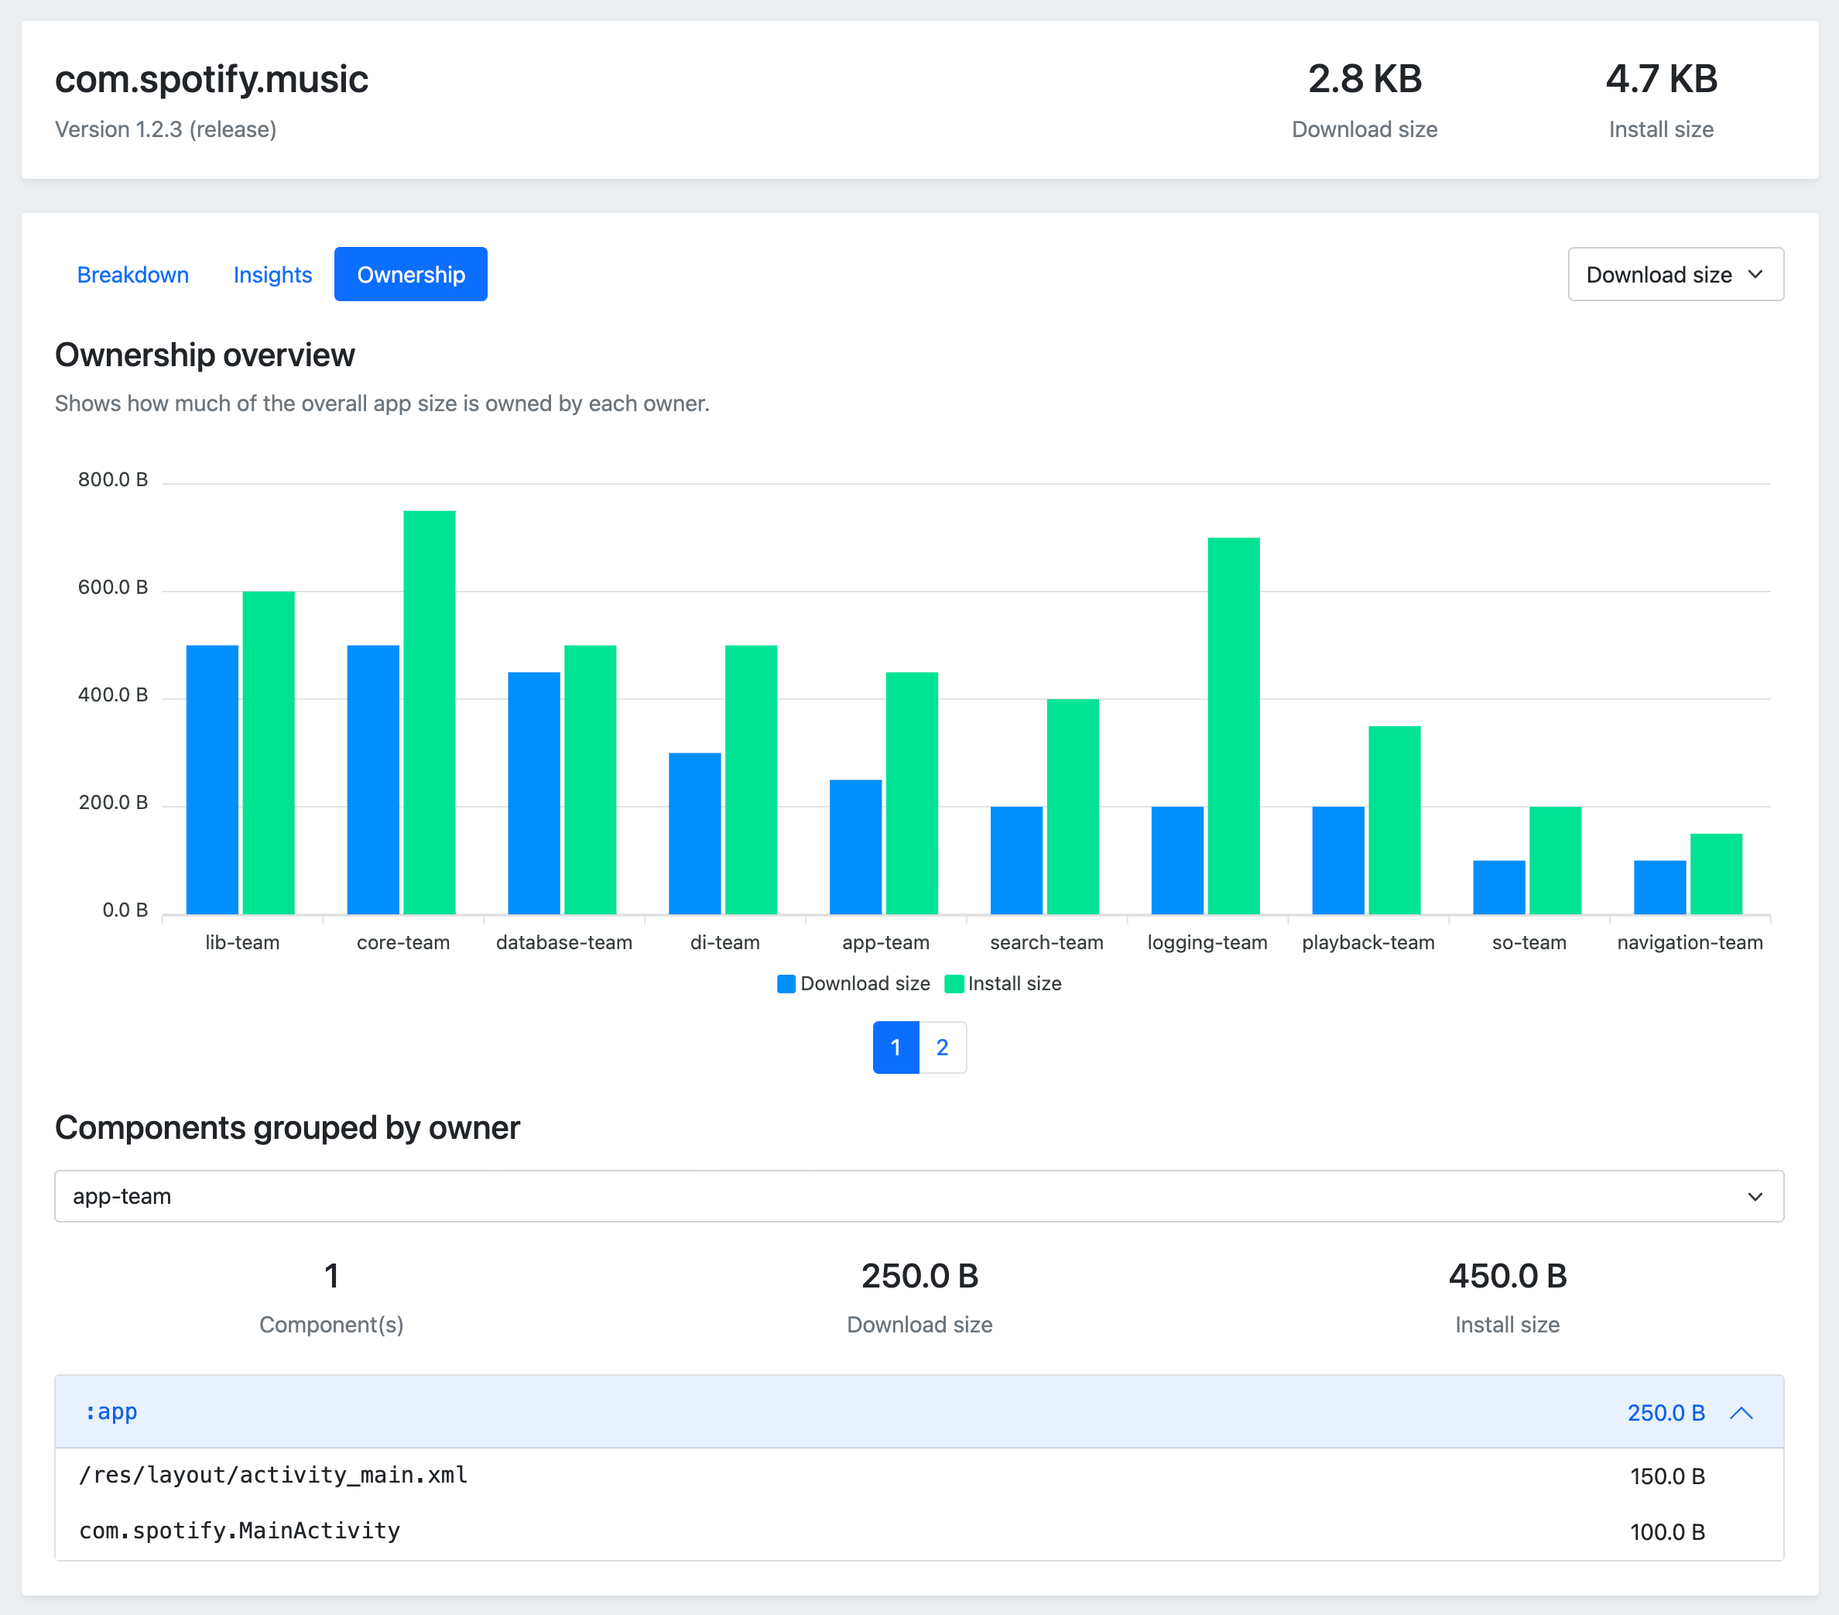
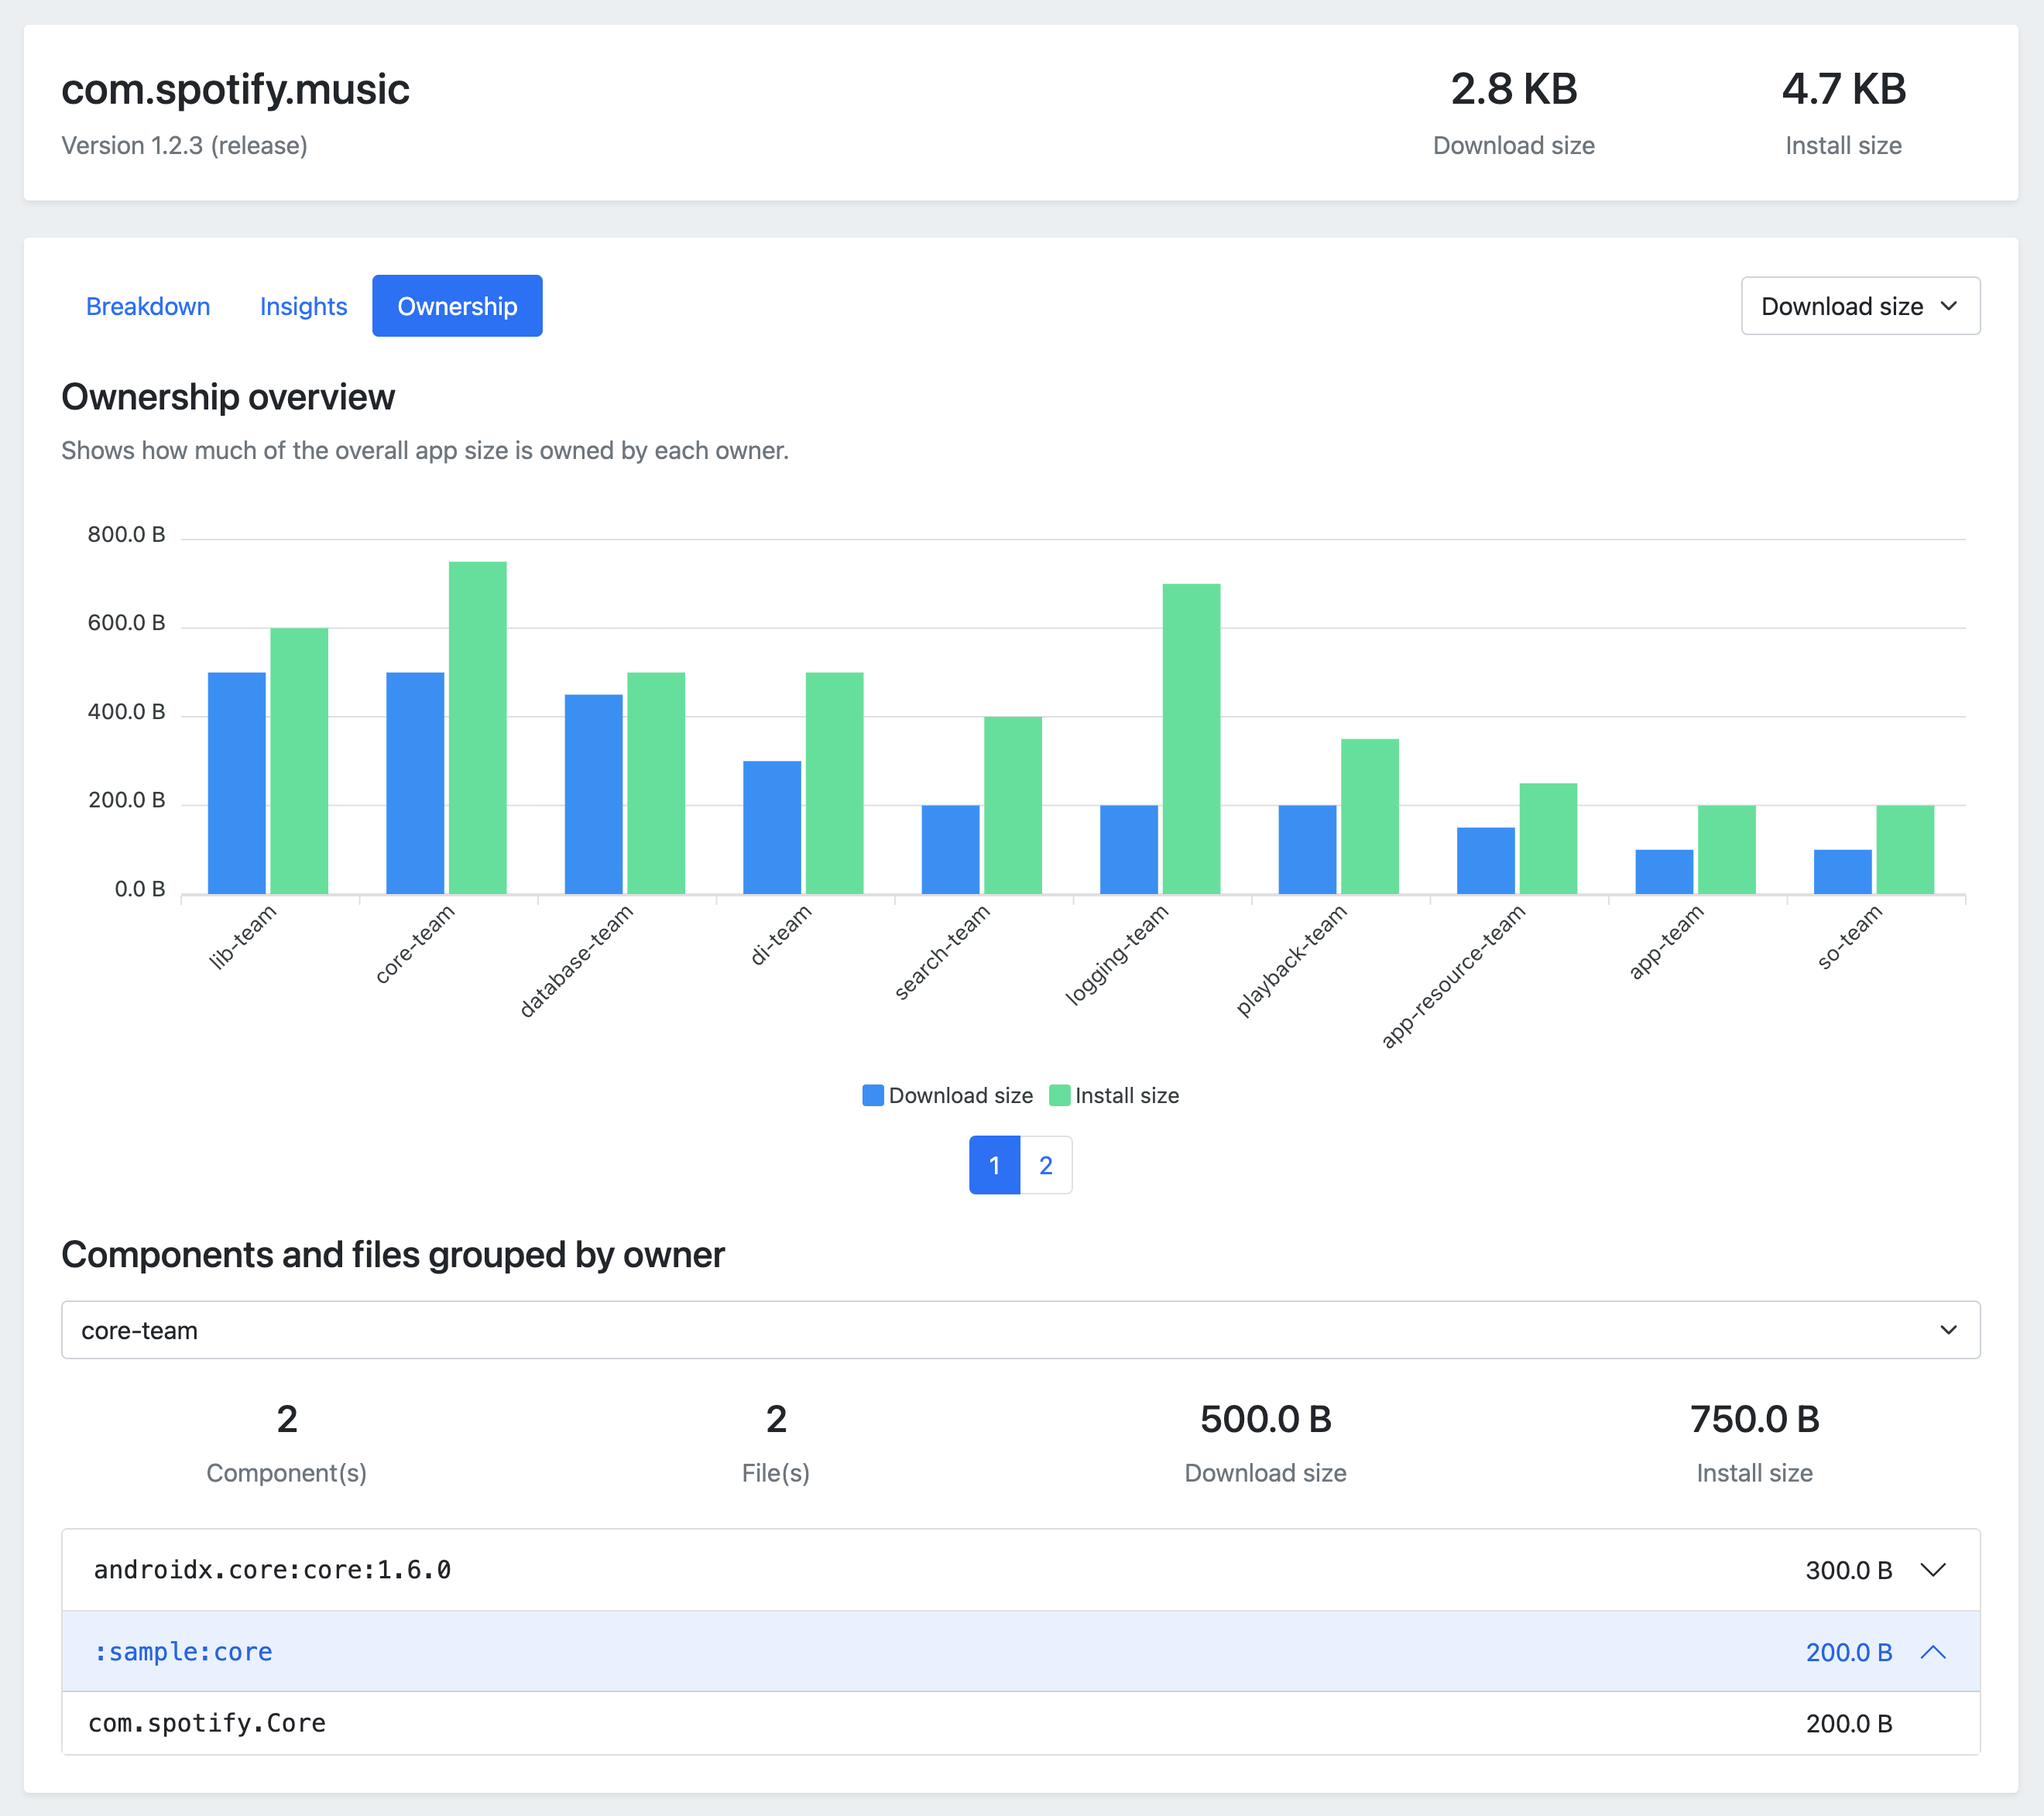
Document file-level ownership functionality

diff --git a/README.md b/README.md
@@ -66,7 +66,7 @@ Once this is done, `analyze<VariantName>Bundle` tasks will be added for each of 
 
 ## Ownership
 
-In larger organizations, Gradle modules and dependencies are often owned by specific teams. If that's the case for your app, Ruler can help you analyze app size contributions by different teams. All you need to do is provide a YAML file listing all components and their owners:
+In larger organizations, Gradle modules and dependencies are often owned by specific teams. If that's the case for your app, Ruler can help you analyze app size contributions by different teams. All you need to do is provide a YAML file listing all components and their owners. It's also possible to specify ownership for individual files, if some of the files within a component are owned by a different team:
 
 ```yaml
 # Identifier for Gradle modules -> path of the module
@@ -77,7 +77,11 @@ In larger organizations, Gradle modules and dependencies are often owned by spec
 - identifier: androidx.core:core
   owner: core-team
 
-# Wildcard identifier -> matches multiple components (can be both modules or dependencies)
+# Identifier for individual files -> Full path/name as it shows up in the APK
+- identifier: com.sample.MainActivity
+  owner: main-team
+
+# Wildcard identifier -> matches multiple components (modules or dependencies) or files
 - identifier: :sample:wildcard:*
   owner: wildcard-team
 ```
